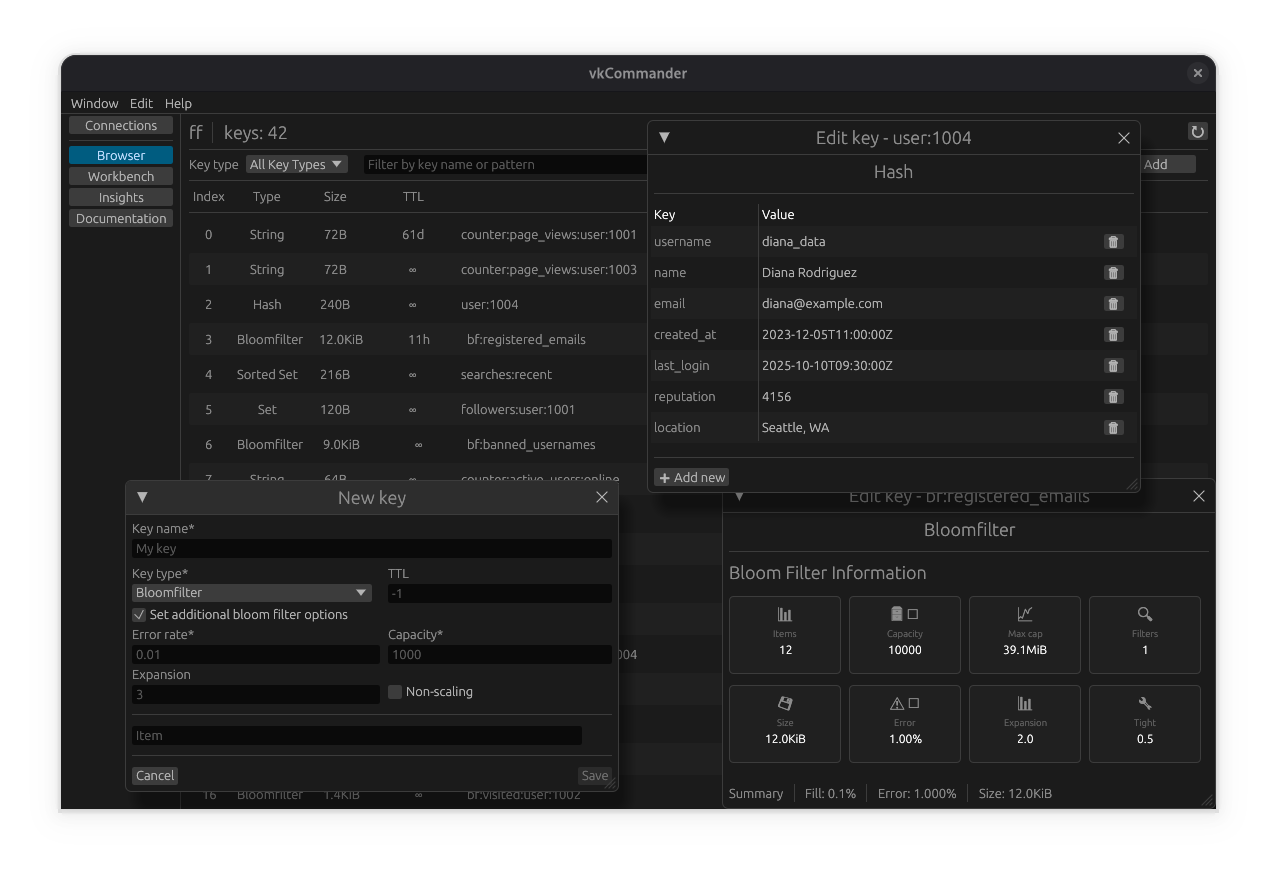
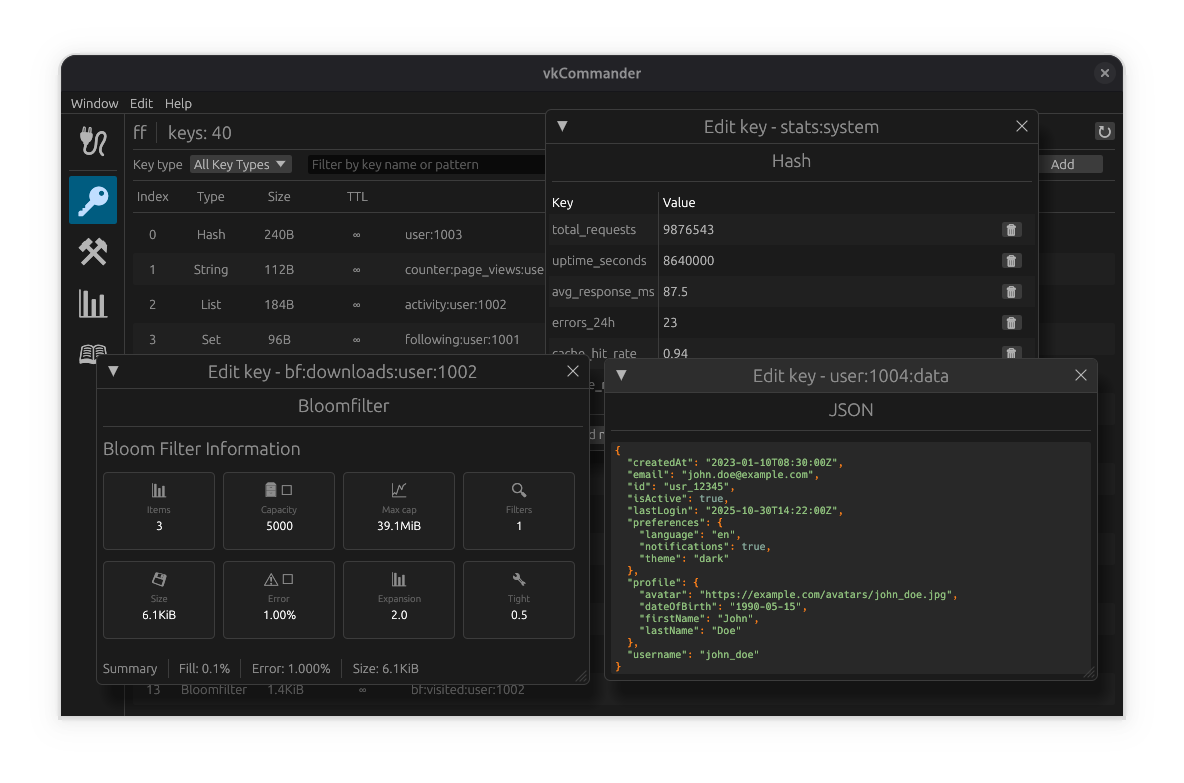
Some UI changes and updated screenshots.

diff --git a/src/ui/components/left_side_bar.rs b/src/ui/components/left_side_bar.rs
@@ -1,91 +1,43 @@
-use crate::errors::Error;
-use crate::i18n::LangKey;
-use crate::state::Event::SetMainWindow;
-use crate::state::{AppState, MainWindow, Message};
-use crate::ui::Component;
-use crate::utils::ValkeyClient;
-use egui::Context;
+use crate::{
+    errors::Error,
+    i18n::LangKey,
+    state::{AppState, Event::SetMainWindow, MainWindow, Message},
+    ui::Component,
+    utils::ValkeyClient,
+};
 use std::sync::Arc;
 
 #[derive(Default)]
 pub struct LeftSideBar;
 
 impl Component for LeftSideBar {
-    fn show(&mut self, ctx: &Context, state: &mut AppState) -> Result<(), Error> {
+    fn show(&mut self, ctx: &egui::Context, state: &mut AppState) -> Result<(), Error> {
         let current_window = *state.ui_panels.current_window.read()?;
         egui::SidePanel::left("left_side_bar")
-            .min_width(80.0)
-            .max_width(240.0)
-            .default_width(120.0)
+            .resizable(false)
+            .default_width(64.0)
             .show(ctx, |ui| {
-                if ui
-                    .add_sized(
-                        [ui.available_width(), 0.0],
-                        egui::Button::new(state.i18n().get(LangKey::Connections))
-                            .selected(matches!(current_window, Some(MainWindow::Connection))),
-                    )
-                    .clicked()
-                {
-                    self.set_window_state(state, MainWindow::Connection)
-                        .unwrap_or_else(|e| {
-                            e.show_error_dialog(state.get_sender());
-                        });
-                };
+                self.sidebar_nav_button(
+                    ui,
+                    state,
+                    "🔌",
+                    state.i18n().get(LangKey::Connections),
+                    matches!(current_window, Some(MainWindow::Connection)),
+                    MainWindow::Connection,
+                );
+
                 if state.valkey_client.is_some() {
                     ui.separator();
-                    if ui
-                        .add_sized(
-                            [ui.available_width(), 0.0],
-                            egui::Button::new(state.i18n().get(LangKey::Browser))
-                                .selected(matches!(current_window, Some(MainWindow::Browser))),
-                        )
-                        .clicked()
-                    {
-                        self.set_window_state(state, MainWindow::Browser)
-                            .unwrap_or_else(|e| {
-                                e.show_error_dialog(state.get_sender());
-                            });
-                    };
-                    if ui
-                        .add_sized(
-                            [ui.available_width(), 0.0],
-                            egui::Button::new(state.i18n().get(LangKey::Workbench))
-                                .selected(matches!(current_window, Some(MainWindow::Workbench))),
-                        )
-                        .clicked()
-                    {
-                        self.set_window_state(state, MainWindow::Workbench)
-                            .unwrap_or_else(|e| {
-                                e.show_error_dialog(state.get_sender());
-                            });
-                    };
-                    if ui
-                        .add_sized(
-                            [ui.available_width(), 0.0],
-                            egui::Button::new(state.i18n().get(LangKey::Insights))
-                                .selected(matches!(current_window, Some(MainWindow::Insights))),
-                        )
-                        .clicked()
-                    {
-                        self.set_window_state(state, MainWindow::Insights)
-                            .unwrap_or_else(|e| {
-                                e.show_error_dialog(state.get_sender());
-                            });
-                    };
-                    if ui
-                        .add_sized(
-                            [ui.available_width(), 0.0],
-                            egui::Button::new(state.i18n().get(LangKey::Documentation)).selected(
-                                matches!(current_window, Some(MainWindow::Documentation)),
-                            ),
-                        )
-                        .clicked()
-                    {
-                        self.set_window_state(state, MainWindow::Documentation)
-                            .unwrap_or_else(|e| {
-                                e.show_error_dialog(state.get_sender());
-                            });
-                    };
+
+                    for (icon, key, target) in [
+                        ("🔑", LangKey::Browser, MainWindow::Browser),
+                        ("⚒", LangKey::Workbench, MainWindow::Workbench),
+                        ("📊", LangKey::Insights, MainWindow::Insights),
+                        ("📖", LangKey::Documentation, MainWindow::Documentation),
+                    ] {
+                        let sel = matches!(current_window, Some(ref v) if std::mem::discriminant(v) == std::mem::discriminant(&target));
+                        self.sidebar_nav_button(ui, state, icon, state.i18n().get(key), sel, target);
+                    }
                 }
             });
         Ok(())
@@ -94,9 +46,39 @@ impl Component for LeftSideBar {
     fn refresh(&mut self, _: &Arc<ValkeyClient>) {}
 }
 impl LeftSideBar {
+    fn sidebar_nav_button(
+        &self,
+        ui: &mut egui::Ui,
+        state: &AppState,
+        icon: &str,
+        label: impl Into<egui::WidgetText>,
+        selected: bool,
+        target: MainWindow,
+    ) {
+        if ui
+            .scope(|ui| {
+                if !selected {
+                    let visuals = &mut ui.style_mut().visuals.widgets.inactive;
+                    visuals.bg_fill = egui::Color32::TRANSPARENT;
+                    visuals.weak_bg_fill = egui::Color32::TRANSPARENT;
+                    visuals.bg_stroke = egui::Stroke::NONE;
+                }
+                ui.add_sized(
+                    [48.0, 48.0],
+                    egui::Button::new(egui::RichText::new(icon).size(32.0)).selected(selected),
+                )
+                .on_hover_text(label)
+            })
+            .inner
+            .clicked()
+        {
+            self.set_window_state(state, target)
+                .unwrap_or_else(|e| e.show_error_dialog(state.get_sender()));
+        }
+    }
+
     fn set_window_state(&self, state: &AppState, event: MainWindow) -> Result<(), Error> {
-        let mut current_window = state.ui_panels.current_window.write()?;
-        *current_window = Some(event);
+        *state.ui_panels.current_window.write()? = Some(event);
         state
             .get_sender()
             .send(Message::Event(Arc::from(SetMainWindow(event))))?;

diff --git a/src/ui/widgets/popups/edit_key.rs b/src/ui/widgets/popups/edit_key.rs
@@ -1,3 +1,4 @@
+use crate::errors::Error;
 use crate::i18n::{I18N, LangKey};
 use crate::state::{Message, RespCommand};
 use crate::ui::widgets::popups::{PopupUi, code_editor};
@@ -49,9 +50,27 @@ impl EditKey {
                     .enumerate()
                     .map(|(index, value)| (index.to_string(), value.to_string()))
                     .collect(),
-                KeyType::String | KeyType::Json => {
+                KeyType::String => {
                     if !data.is_empty() {
                         vec![("".to_string(), data[0].to_string())]
+                    } else {
+                        vec![("".to_string(), "".to_string())]
+                    }
+                }
+                KeyType::Json => {
+                    if !data.is_empty() {
+                        let prettified = serde_json::from_str::<serde_json::Value>(&data[0])
+                            .map(|v| {
+                                serde_json::to_string_pretty(&v).unwrap_or_else(|e| {
+                                    Error::from(e).log_error();
+                                    data[0].clone()
+                                })
+                            })
+                            .unwrap_or_else(|e| {
+                                Error::from(e).log_error();
+                                data[0].clone()
+                            });
+                        vec![("".to_string(), prettified)]
                     } else {
                         vec![("".to_string(), "".to_string())]
                     }

diff --git a/src/errors.rs b/src/errors.rs
@@ -184,6 +184,6 @@ impl Error {
             });
     }
     pub fn log_error(self) {
-        eprintln!("Failed to send error message: {}", self);
+        eprintln!("An error occurred: {}", self);
     }
 }
